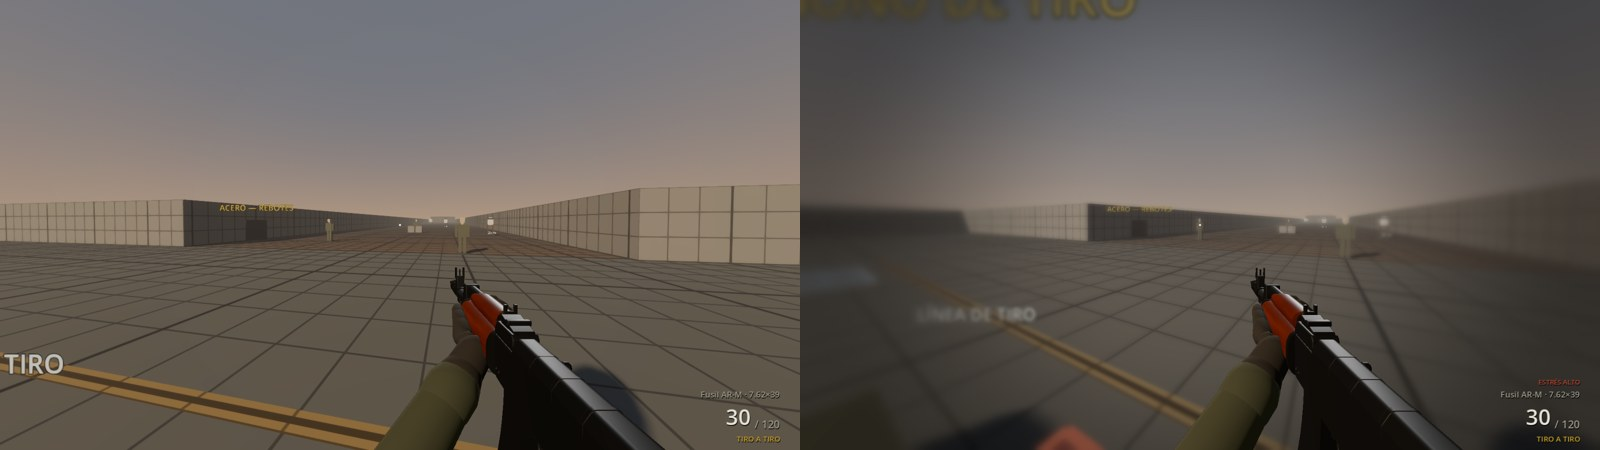
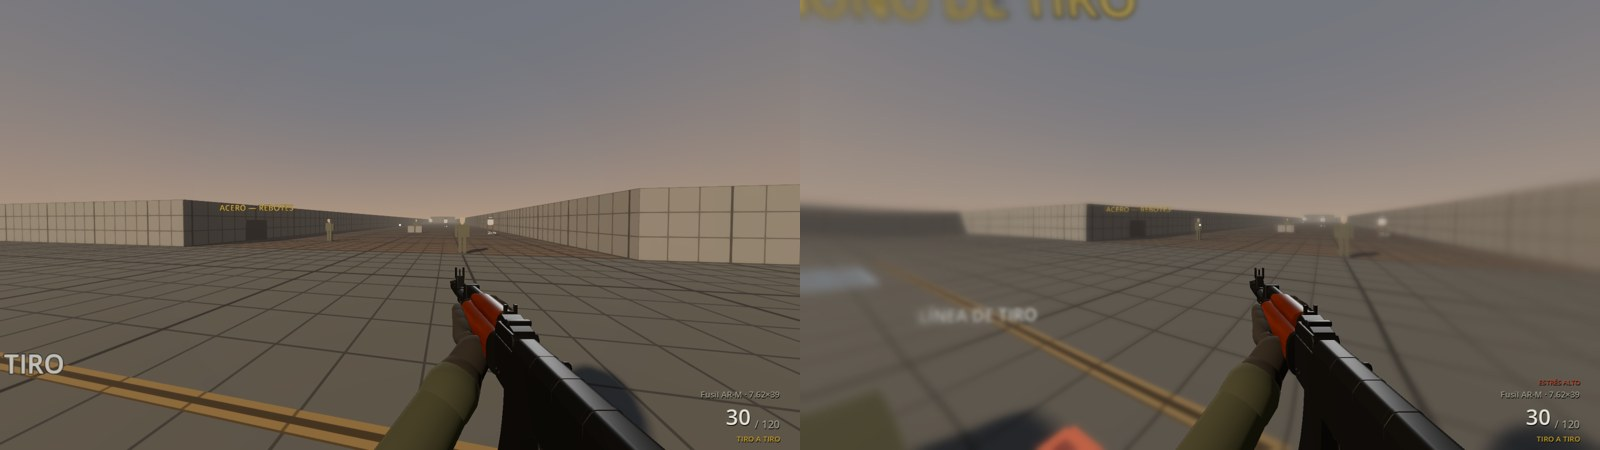
F1.12: estrés con distorsión ondulante en vez de bordes oscuros
Claude-Session: https://claude.ai/code/session_01NiLch2TfVhWRmUGhGTA8SM

diff --git a/docs/DEVLOG.md b/docs/DEVLOG.md
@@ -138,7 +138,7 @@
 ### Funciona
 - **Zonas de prueba** pintadas entre la armería y la línea de tiro: *Estrés medio*, *Estrés alto* y *Armas gastadas*. Desde ahí se tira a las dianas.
 - **Estrés** (`core/stress.gd`): sube rápido y baja lento; niveles medio y alto. Por ahora lo fijan las zonas (después: supresión y daño).
-  - Visión: desenfoque leve (más en los bordes), algo desaturada, doble imagen apenas corrida y viñeta que late con el pulso (`ui/effects/stress_overlay.gd`, capa 0: no afecta al arma ni al HUD).
+  - Visión: desenfoque leve (más en los bordes), distorsión que ondula y late con el pulso, algo desaturada y doble imagen apenas corrida; sin oscurecer los bordes (`ui/effects/stress_overlay.gd`, capa 0: no afecta al arma ni al HUD).
   - Más dispersión desde la cadera (hasta ×2,1 en alto).
   - Deriva lenta de la mira, menor apuntando; cada latido la empuja. Mueve la cámara de verdad: cambia dónde va la bala.
   - Temblor de manos y arma, más fuerte manipulando.

diff --git a/docs/HOW_TO_TEST.md b/docs/HOW_TO_TEST.md
@@ -119,7 +119,7 @@ Las zonas están pintadas en el piso entre las mesas de la armería y la línea 
 
 | # | Probá | Esperado |
 |---|---|---|
-| 1 | Pararte en ESTRÉS ALTO | En ~1 s la vista se desenfoca en los bordes, late y se desatura; arriba de la munición dice ESTRÉS ALTO |
+| 1 | Pararte en ESTRÉS ALTO | En ~1 s la vista se desenfoca, ondula y late con el pulso (sin bordes oscuros); arriba de la munición dice ESTRÉS ALTO |
 | 2 | Apuntar ahí | La mira se mueve apenas, lento; los tiros se abren un poco |
 | 3 | Tirar desde la cadera ahí | Bastante más dispersión que afuera |
 | 4 | Vaciar el AR-M y R en estrés alto | Tarda ~70 % más; el cargador pega dos veces en el brocal antes de entrar; manos temblorosas |
